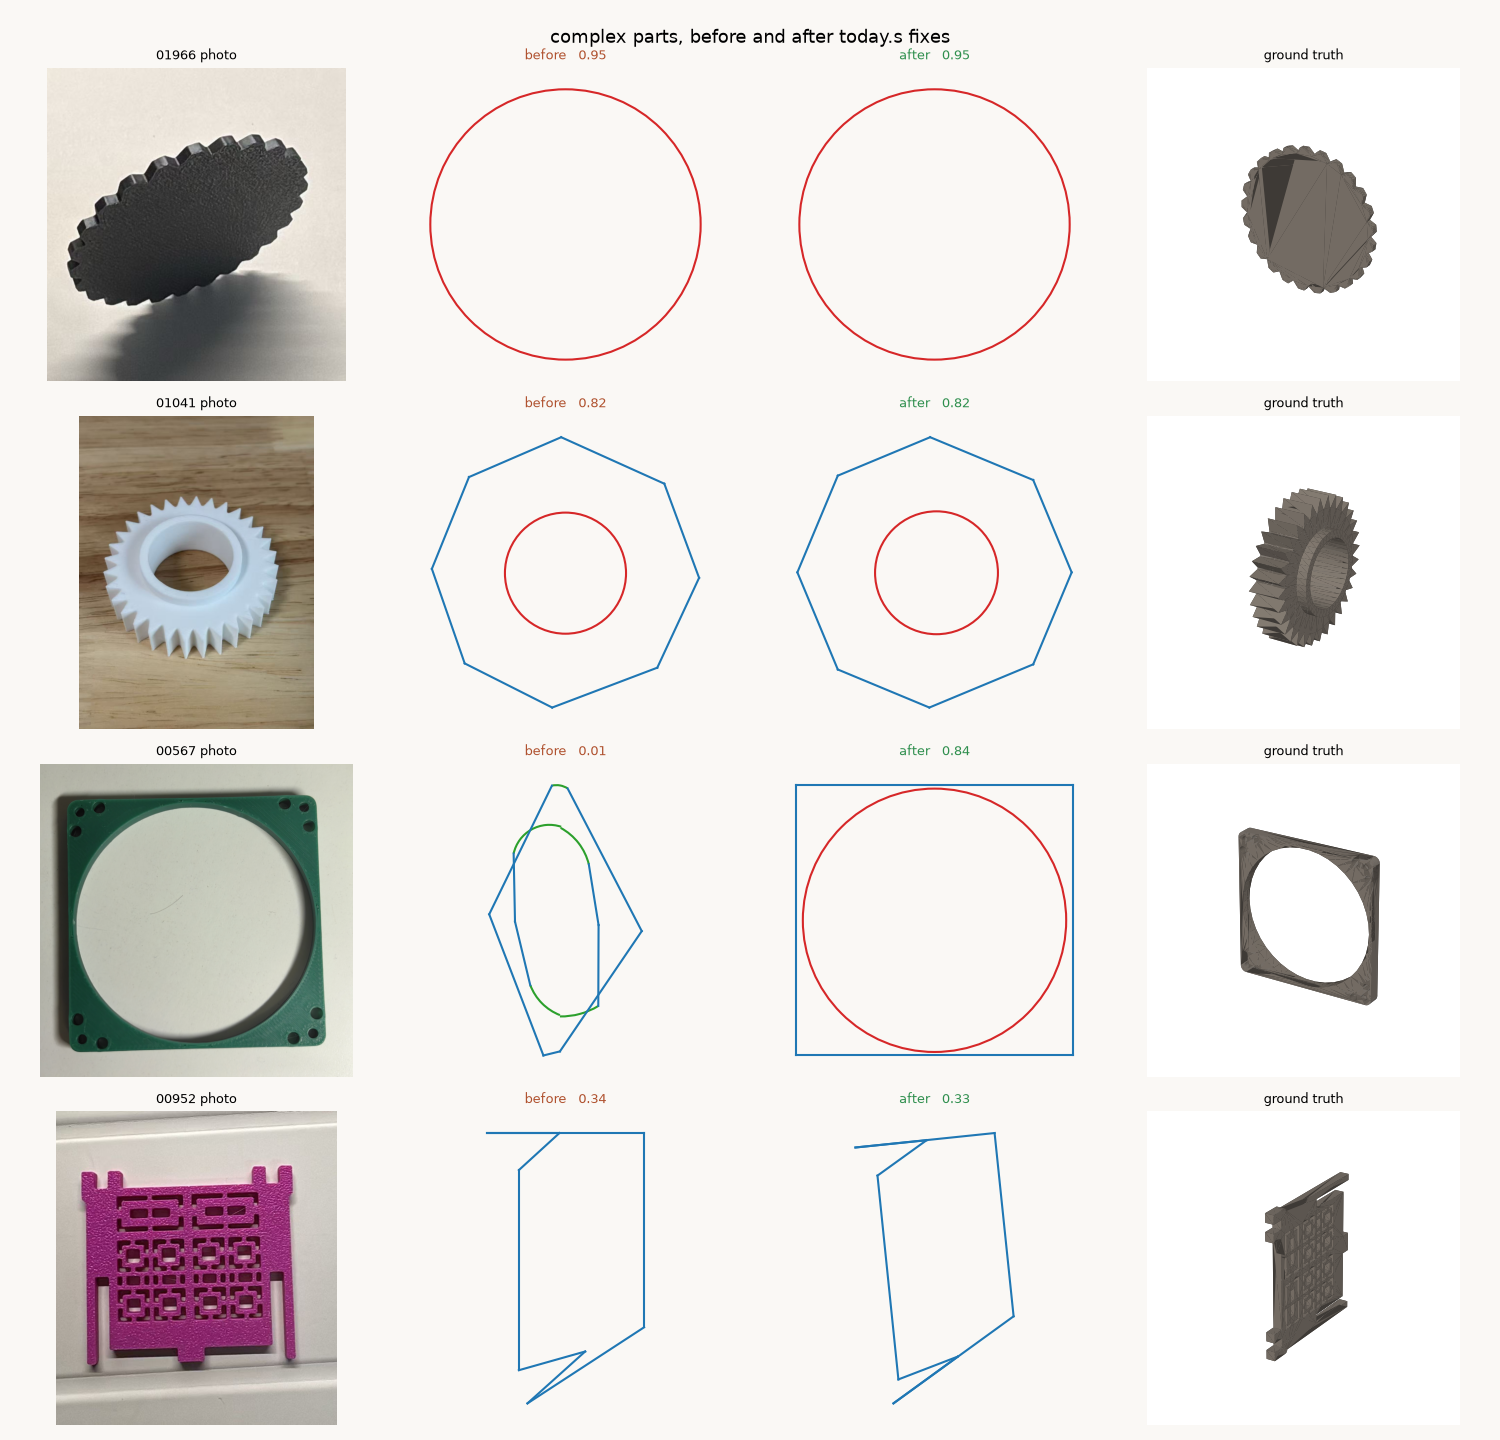
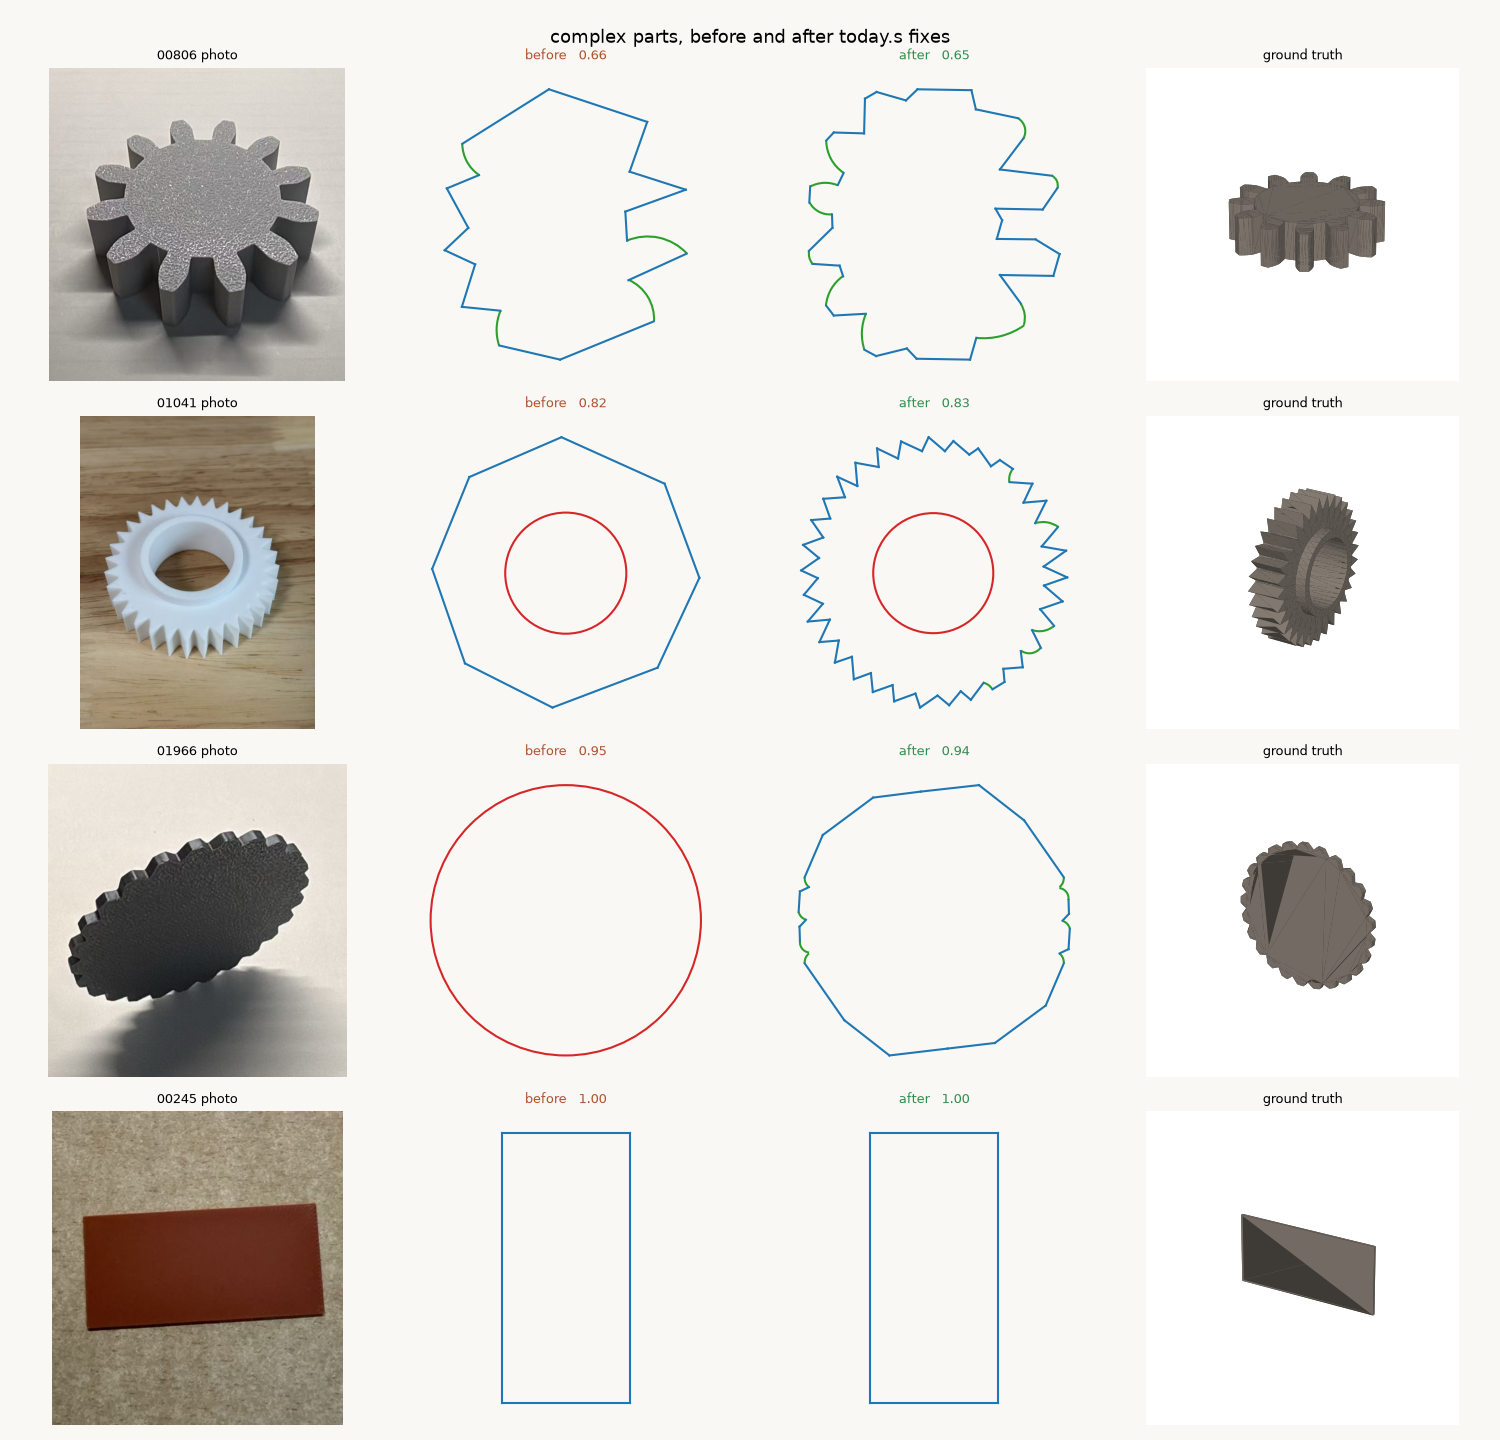
Uniform teeth cannot be recovered from an oblique photograph, and here is why
Building one canonical tooth and repeating it needs the repeats to sit at a uniform
angular pitch about the centroid. On synthetic face-on gears that works exactly: fold
counts of 8, 12, 16, 20, 24 and 30 are all recovered, 24 cases out of 24, with up to 4%
radial jitter, once the search takes the finest symmetry rather than the coarsest - a
twelve tooth rim is also three and four fold symmetric, so every divisor fits and only
the largest is the tooth count.

On the photographs it fails completely. Splitting a real gear's contour at its true
count explains none of the variance - 0.82 of it remains for the thirty tooth gear, 0.92
for the twelve tooth one, 1.00 for the scalloped disc - and the search picks 6, 10 and 4,
while a plain plate and a ring get spurious counts of 8 and 9. Removing the elliptical
baseline first, which was the obvious suspect, changes nothing.

The reason is geometric rather than statistical. A rotation about the part's own axis is
not a rotation about the centroid of its image: under oblique projection the far teeth
are compressed, so the angular pitch is not uniform and no amount of sector averaging can
align them. This is the fifth attempt at rotational regularity and the first one that
explains the previous four.

The detail preservation stays, since it needs no count. The rebuild is removed rather
than left dead.

diff --git a/tools/sketchnet_pretrain.py b/tools/sketchnet_pretrain.py
@@ -1,0 +1,105 @@
+"""Pretrain on SketchGraphs, fine-tune on PrintCAD, and re-run gate 1.
+
+sketchnet reached 96% correct primitive count on the parts it trained on and 40% across a part
+split - it learns the mapping and cannot generalise from 967 parts. SketchGraphs supplies 60000 real
+CAD sketches whose entities are the same primitives, rendered the same way, so the question is
+whether the shortage was the only thing wrong.
+"""
+import os, sys
+
+import numpy as np
+
+ROOT = os.path.dirname(os.path.dirname(os.path.abspath(__file__)))
+sys.path.insert(0, os.path.join(ROOT, "src"))
+sys.path.insert(0, os.path.join(ROOT, "tools"))
+import torch  # noqa: E402
+from photo2fcstd import sketchnet as SN  # noqa: E402
+from sketchnet_train import losses, tracer_baseline  # noqa: E402
+
+DEV = "mps" if torch.backends.mps.is_available() else "cpu"
+
+
+def fit(model, X, Y, idx, epochs, lr, batch=64, tag="", val=None):
+    opt = torch.optim.AdamW(model.parameters(), lr=lr, weight_decay=1e-4)
+    rng = np.random.default_rng(0)
+    for epoch in range(epochs):
+        model.train()
+        perm = rng.permutation(idx)
+        tot = 0.0
+        for i in range(0, len(perm), batch):
+            b = perm[i:i + batch]
+            opt.zero_grad()
+            loss, _, _ = losses(model(X[b].to(DEV)), Y[b].to(DEV), DEV)
+            loss.backward()
+            opt.step()
+            tot += float(loss.detach()) * len(b)
+        line = "  %-10s epoch %2d  train %.4f" % (tag, epoch, tot / len(perm))
+        if val is not None:
+            model.eval()
+            with torch.no_grad():
+                v = np.mean([float(losses(model(X[val[i:i + 128]].to(DEV)),
+                                          Y[val[i:i + 128]].to(DEV), DEV)[0].detach())
+                             for i in range(0, len(val), 128)])
+            line += "  val %.4f" % v
+        if epoch % 2 == 0 or epoch == epochs - 1:
+            print(line)
+    return model
+
+
+def counts_right(model, X, Y, idx):
+    model.eval()
+    got = []
+    for i in range(0, len(idx), 128):
+        b = idx[i:i + 128]
+        with torch.no_grad():
+            raw = model(X[b].to(DEV)).cpu().numpy()
+        n = (1 / (1 + np.exp(-raw[..., 0])) > 0.5).sum(1)
+        got.append(n == Y[b].numpy()[:, :, 0].sum(1))
+    return float(np.concatenate(got).mean())
+
+
+def main():
+    pre = np.load(os.path.join(ROOT, "data", "sketchnet_pretrain.npz"))
+    Xp = torch.from_numpy(pre["X"].astype(np.float32) / 255.0).unsqueeze(1)
+    Yp = torch.from_numpy(pre["Y"]).float()
+    d = np.load(os.path.join(ROOT, "data", "sketchnet_tilt0.npz"), allow_pickle=True)
+    X, Y, parts = d["X"], d["Y"], d["parts"]
+    Xt = torch.from_numpy(X).float().unsqueeze(1)
+    Yt = torch.from_numpy(Y).float()
+    uniq = sorted(set(parts.tolist()))
+    rng = np.random.default_rng(0)
+    rng.shuffle(uniq)
+    train_parts = set(uniq[:int(0.8 * len(uniq))])
+    tr = np.array([i for i, p in enumerate(parts) if p in train_parts])
+    te = np.array([i for i, p in enumerate(parts) if p not in train_parts])
+    n = len(Xp)
+    pv = np.arange(int(0.98 * n), n)
+    pt = np.arange(int(0.98 * n))
+    print("pretrain on %d SketchGraphs sketches, fine-tune on %d PrintCAD renders (%d parts)\n"
+          % (len(pt), len(tr), len(train_parts)))
+
+    scratch = SN.build_model().to(DEV)
+    fit(scratch, Xt, Yt, tr, 30, 2e-3, tag="scratch")
+    a_tr, a_te = counts_right(scratch, Xt, Yt, tr), counts_right(scratch, Xt, Yt, te)
+
+    model = SN.build_model().to(DEV)
+    fit(model, Xp, Yp, pt, 8, 2e-3, tag="pretrain", val=pv)
+    p_sg = counts_right(model, Xp, Yp, pv)
+    p_te = counts_right(model, Xt, Yt, te)
+    print("\n  after pretraining only: SketchGraphs held out %.0f%%, PrintCAD test %.0f%%"
+          % (100 * p_sg, 100 * p_te))
+    fit(model, Xt, Yt, tr, 15, 5e-4, tag="finetune")
+    b_tr, b_te = counts_right(model, Xt, Yt, tr), counts_right(model, Xt, Yt, te)
+
+    base = tracer_baseline(X[te][:200], Y[te][:200])
+    tr_right = float(np.mean(base[:, 0] == base[:, 1]))
+    print("\n  %-34s %8s %8s" % ("right number of primitives", "train", "test"))
+    print("  %-34s %8s %7.0f%%" % ("geometric tracer", "-", 100 * tr_right))
+    print("  %-34s %7.0f%% %7.0f%%" % ("sketchnet, from scratch", 100 * a_tr, 100 * a_te))
+    print("  %-34s %7.0f%% %7.0f%%" % ("sketchnet, pretrained then tuned", 100 * b_tr, 100 * b_te))
+    torch.save({k: v.detach().cpu() for k, v in model.state_dict().items()},
+               SN.MODEL_PATH + ".pretrained")
+
+
+if __name__ == "__main__":
+    main()
